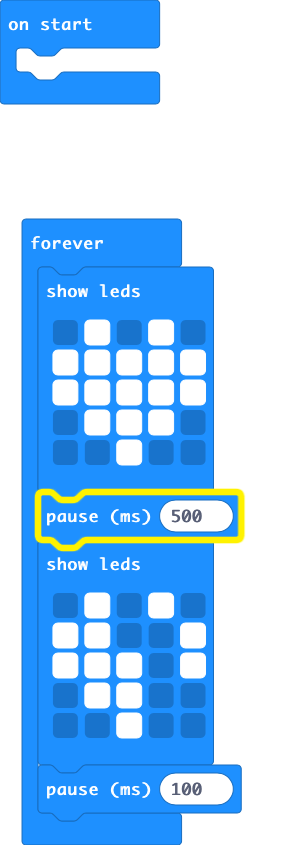
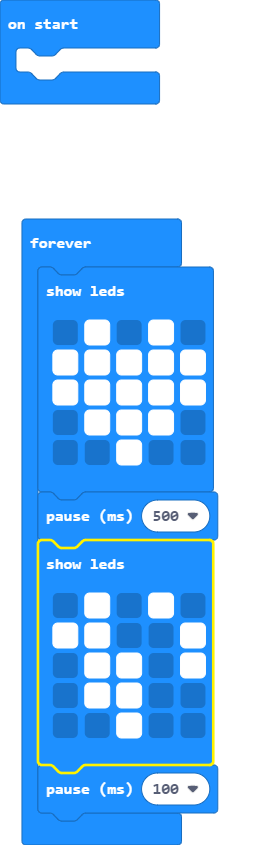
Update main.blocks, main.ts

diff --git a/main.ts b/main.ts
@@ -10,7 +10,7 @@ basic.forever(function () {
     basic.showLeds(`
         . # . # .
         # # . . #
-        # # # . #
+        . # # . #
         . # # . .
         . . # . .
         `)
